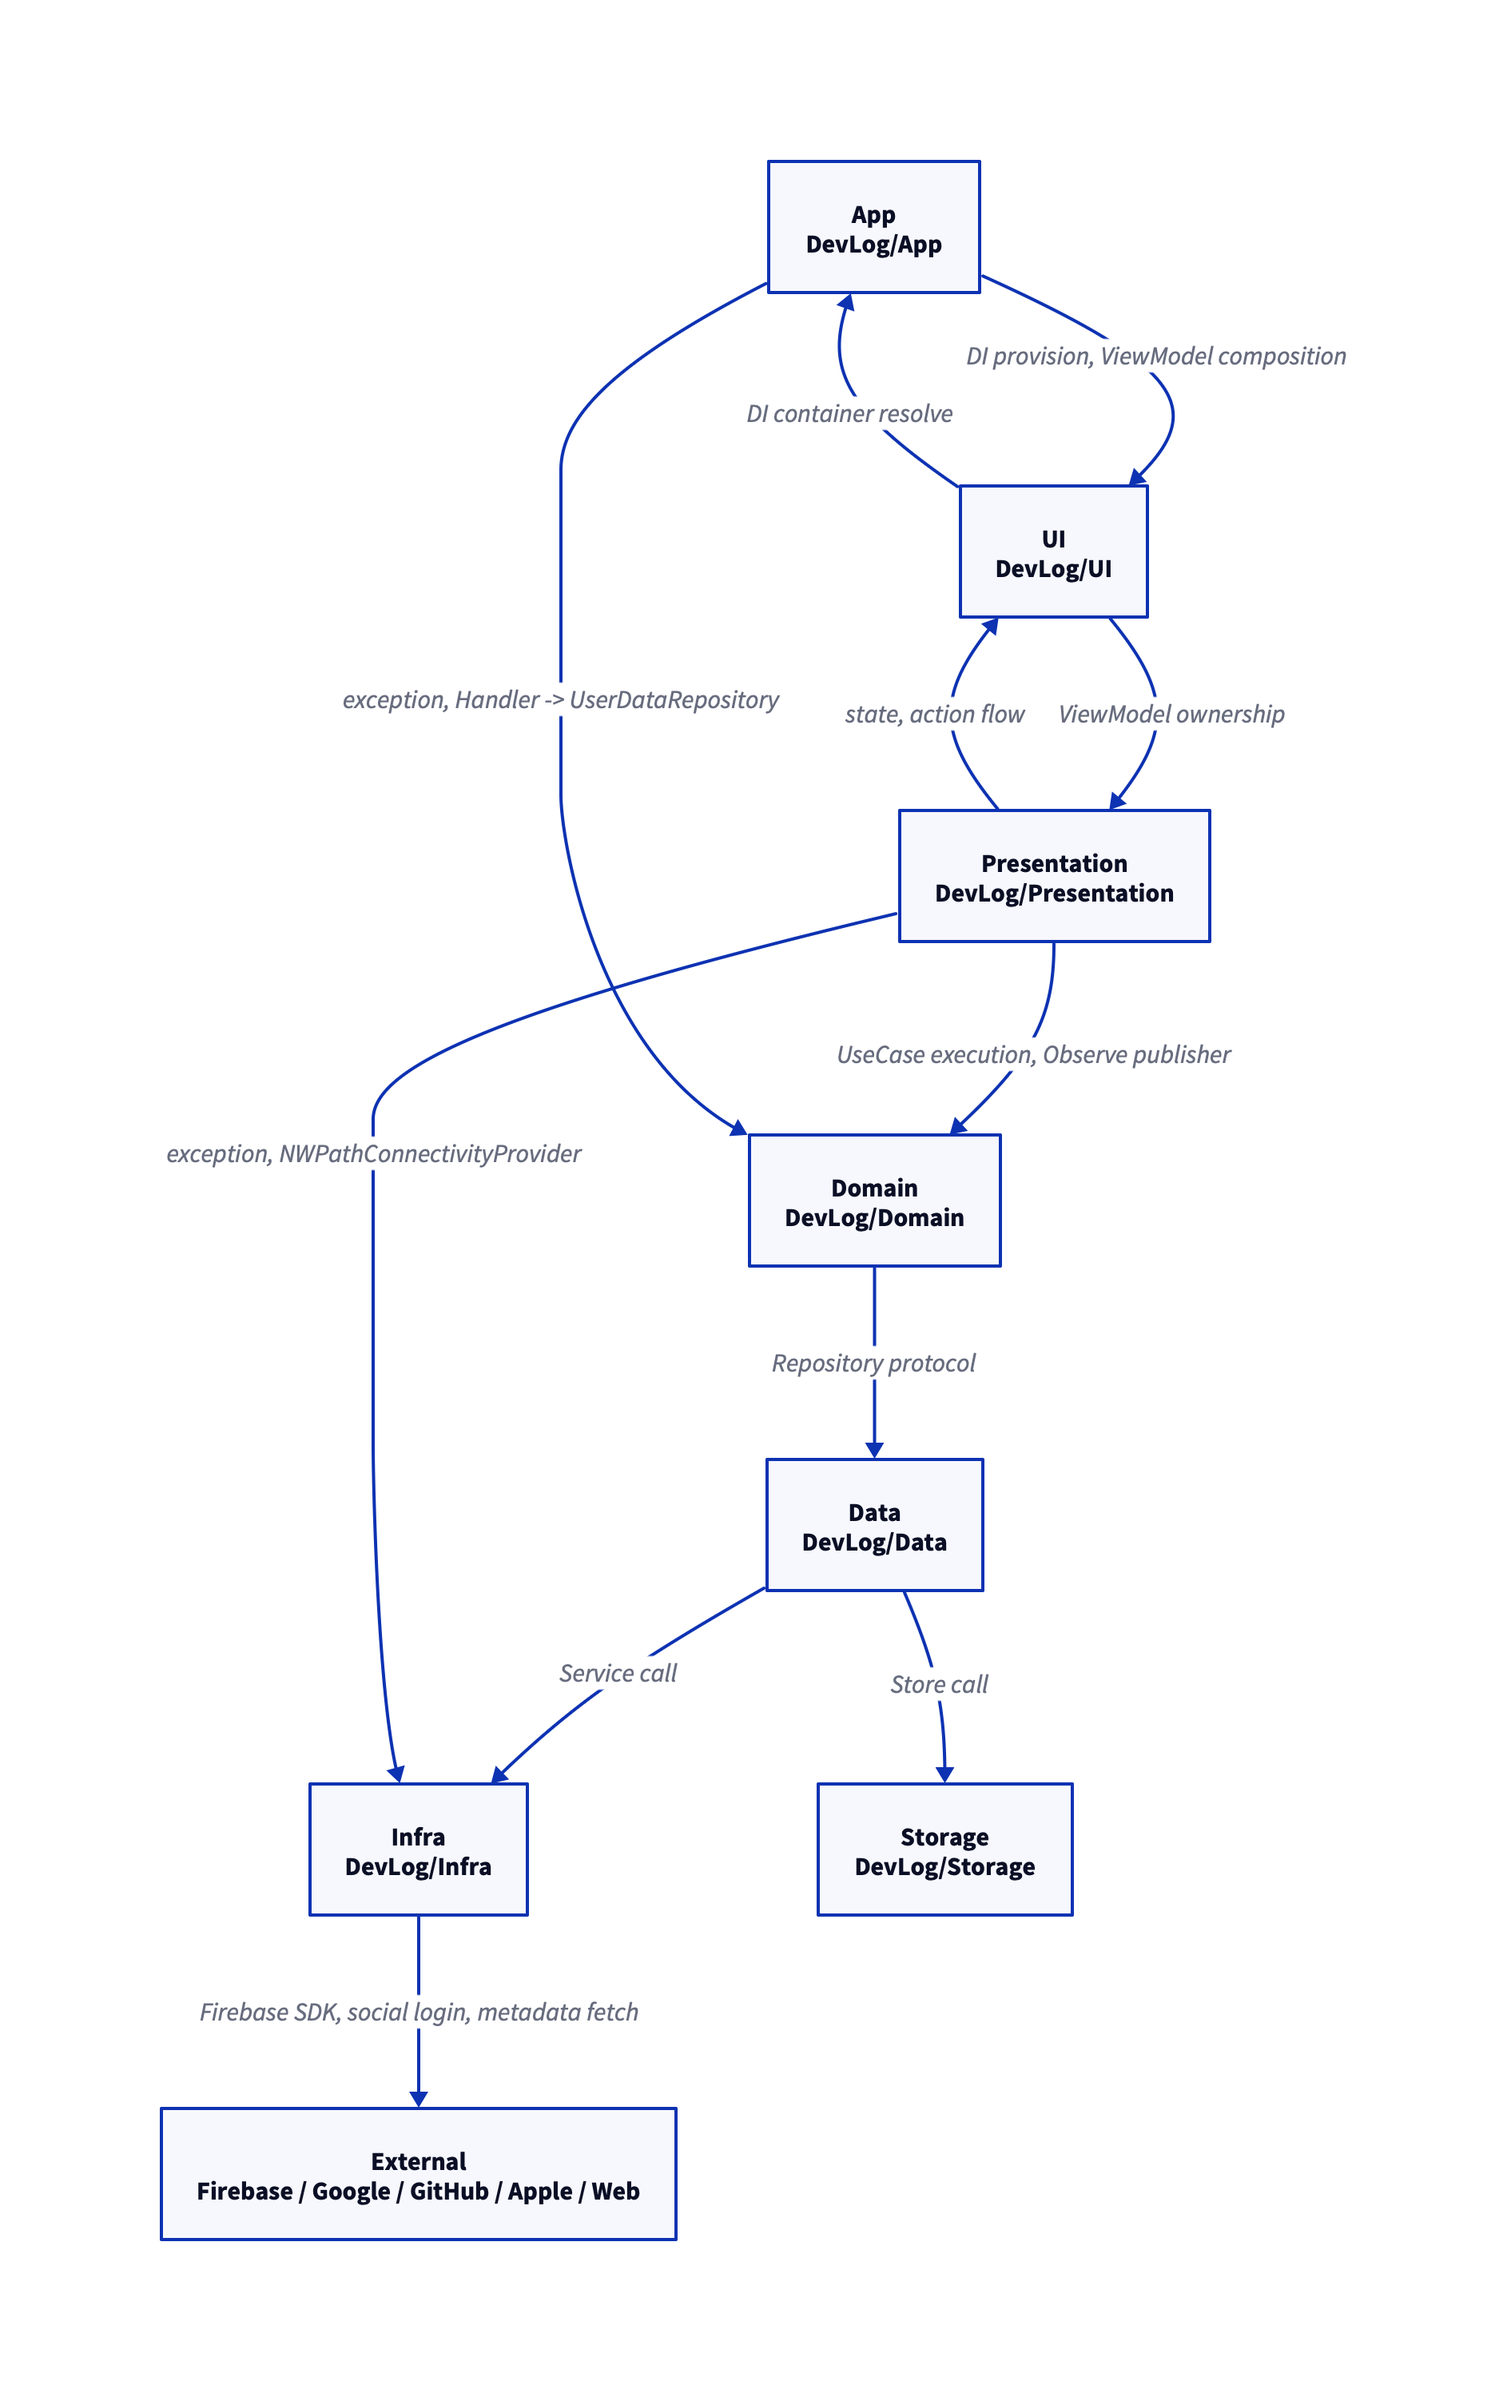
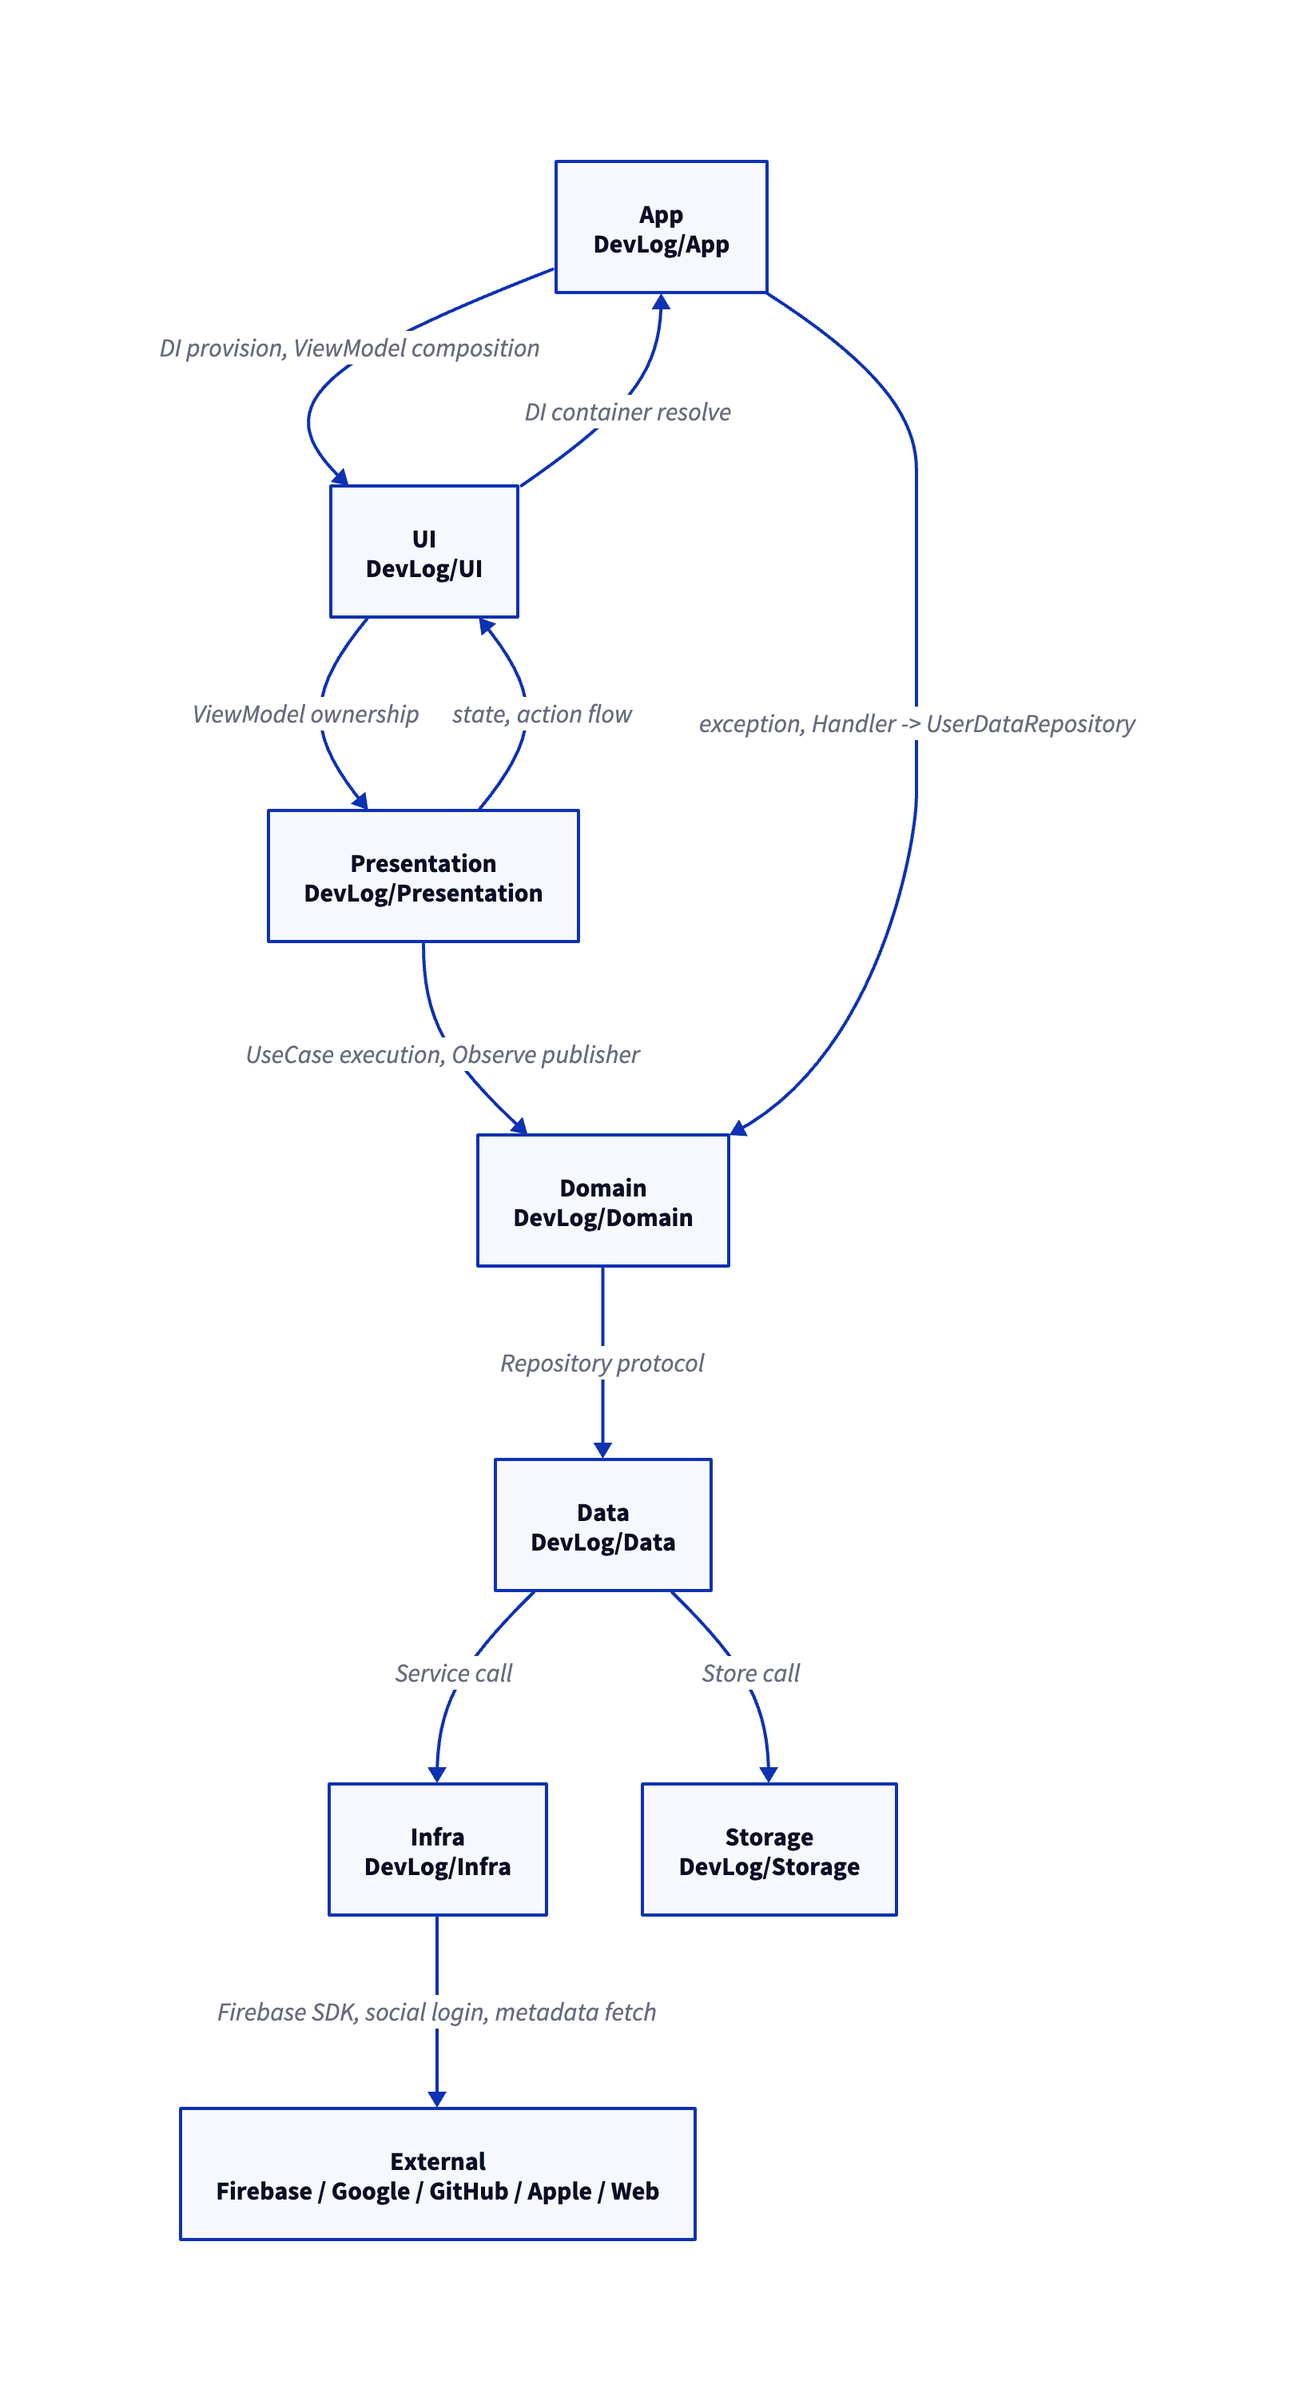
refactor: presentation -> infra 방향 예외 개선

diff --git a/DevLog/Presentation/ViewModel/RootViewModel.swift b/DevLog/Presentation/ViewModel/RootViewModel.swift
@@ -33,16 +33,18 @@ final class RootViewModel: Store {
     }
 
     private(set) var state: State
-    private let connectivityProvider = NWPathConnectivityProvider()
     private var cancellables = Set<AnyCancellable>()
     private let sessionUseCase: AuthSessionUseCase
+    private let observeNetworkConnectivityUseCase: ObserveNetworkConnectivityUseCase
     private let observeSystemThemeUseCase: ObserveSystemThemeUseCase
     
     init(
         sessionUseCase: AuthSessionUseCase,
+        observeNetworkConnectivityUseCase: ObserveNetworkConnectivityUseCase,
         observeSystemThemeUseCase: ObserveSystemThemeUseCase
     ) {
         self.sessionUseCase = sessionUseCase
+        self.observeNetworkConnectivityUseCase = observeNetworkConnectivityUseCase
         self.observeSystemThemeUseCase = observeSystemThemeUseCase
         self.state = State()
         
@@ -96,7 +98,7 @@ private extension RootViewModel {
     }
 
     func setupNetworkMonitoring() {
-        connectivityProvider.isConnectedPublisher
+        observeNetworkConnectivityUseCase.publisher
             .dropFirst()
             .removeDuplicates()
             .receive(on: DispatchQueue.main)

diff --git a/DevLog/App/Assembler/DomainAssembler.swift b/DevLog/App/Assembler/DomainAssembler.swift
@@ -8,6 +8,7 @@
 final class DomainAssembler: Assembler {
     func assemble(_ container: DIContainer) {
         registerAuthUseCases(container)
+        registerConnectivityUseCases(container)
         registerAuthProviderUseCases(container)
         registerTodoUseCases(container)
         registerUserDataUseCases(container)
@@ -33,6 +34,14 @@ private extension DomainAssembler {
 
         container.register(AuthSessionUseCase.self) {
             AuthSessionUseCaseImpl(container.resolve(AuthSessionRepository.self))
+        }
+    }
+
+    func registerConnectivityUseCases(_ container: DIContainer) {
+        container.register(ObserveNetworkConnectivityUseCase.self) {
+            ObserveNetworkConnectivityUseCaseImpl(
+                container.resolve(NetworkConnectivityRepository.self)
+            )
         }
     }
 

diff --git a/DevLog/Data/Repository/NetworkConnectivityRepositoryImpl.swift b/DevLog/Data/Repository/NetworkConnectivityRepositoryImpl.swift
@@ -1,0 +1,20 @@
+//
+//  NetworkConnectivityRepositoryImpl.swift
+//  DevLog
+//
+//  Created by opfic on 3/26/26.
+//
+
+import Combine
+
+final class NetworkConnectivityRepositoryImpl: NetworkConnectivityRepository {
+    private let connectivityProvider: NWPathConnectivityProvider
+
+    init(connectivityProvider: NWPathConnectivityProvider) {
+        self.connectivityProvider = connectivityProvider
+    }
+
+    var publisher: AnyPublisher<Bool, Never> {
+        connectivityProvider.isConnectedPublisher
+    }
+}

diff --git a/DevLog/Domain/UseCase/Connectivity/ObserveNetworkConnectivityUseCaseImpl.swift b/DevLog/Domain/UseCase/Connectivity/ObserveNetworkConnectivityUseCaseImpl.swift
@@ -1,0 +1,20 @@
+//
+//  ObserveNetworkConnectivityUseCaseImpl.swift
+//  DevLog
+//
+//  Created by opfic on 3/26/26.
+//
+
+import Combine
+
+final class ObserveNetworkConnectivityUseCaseImpl: ObserveNetworkConnectivityUseCase {
+    private let repository: NetworkConnectivityRepository
+
+    init(_ repository: NetworkConnectivityRepository) {
+        self.repository = repository
+    }
+
+    var publisher: AnyPublisher<Bool, Never> {
+        repository.publisher
+    }
+}

diff --git a/DevLog/App/Assembler/DataAssembler.swift b/DevLog/App/Assembler/DataAssembler.swift
@@ -38,6 +38,12 @@ final class DataAssembler: Assembler {
             )
         }
 
+        container.register(NetworkConnectivityRepository.self) {
+            NetworkConnectivityRepositoryImpl(
+                connectivityProvider: container.resolve(NWPathConnectivityProvider.self)
+            )
+        }
+
         container.register(AuthDataRepository.self) {
             AuthDataRepositoryImpl(
                 authService: container.resolve(AuthService.self),

diff --git a/DevLog/App/DevLogApp.swift b/DevLog/App/DevLogApp.swift
@@ -20,6 +20,7 @@ struct DevLogApp: App {
         WindowGroup {
             RootView(viewModel: RootViewModel(
                 sessionUseCase: container.resolve(AuthSessionUseCase.self),
+                observeNetworkConnectivityUseCase: container.resolve(ObserveNetworkConnectivityUseCase.self),
                 observeSystemThemeUseCase: container.resolve(ObserveSystemThemeUseCase.self)
             ))
             .autocorrectionDisabled()

diff --git a/DevLog/Domain/UseCase/Connectivity/ObserveNetworkConnectivityUseCase.swift b/DevLog/Domain/UseCase/Connectivity/ObserveNetworkConnectivityUseCase.swift
@@ -1,0 +1,12 @@
+//
+//  ObserveNetworkConnectivityUseCase.swift
+//  DevLog
+//
+//  Created by opfic on 3/26/26.
+//
+
+import Combine
+
+protocol ObserveNetworkConnectivityUseCase {
+    var publisher: AnyPublisher<Bool, Never> { get }
+}

diff --git a/DevLog/App/Assembler/InfraAssembler.swift b/DevLog/App/Assembler/InfraAssembler.swift
@@ -52,5 +52,8 @@ final class InfraAssembler: Assembler {
             WebPageMetadataService()
         }
 
+        container.register(NWPathConnectivityProvider.self) {
+            NWPathConnectivityProvider()
+        }
     }
 }

diff --git a/DevLog/Domain/Protocol/NetworkConnectivityRepository.swift b/DevLog/Domain/Protocol/NetworkConnectivityRepository.swift
@@ -1,0 +1,12 @@
+//
+//  NetworkConnectivityRepository.swift
+//  DevLog
+//
+//  Created by opfic on 3/26/26.
+//
+
+import Combine
+
+protocol NetworkConnectivityRepository {
+    var publisher: AnyPublisher<Bool, Never> { get }
+}
